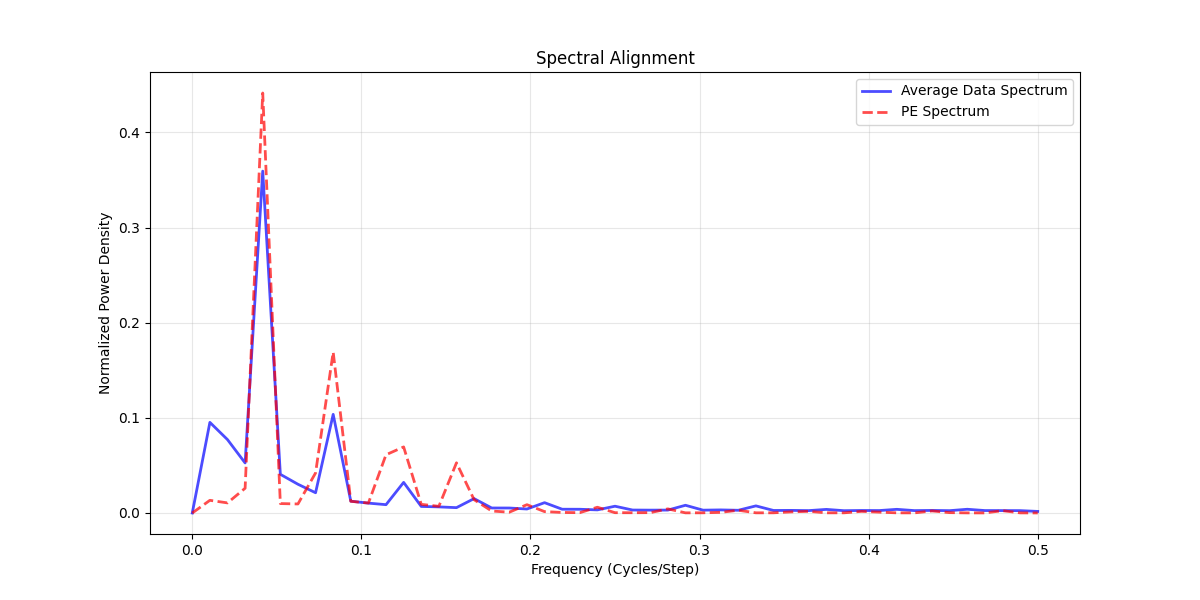
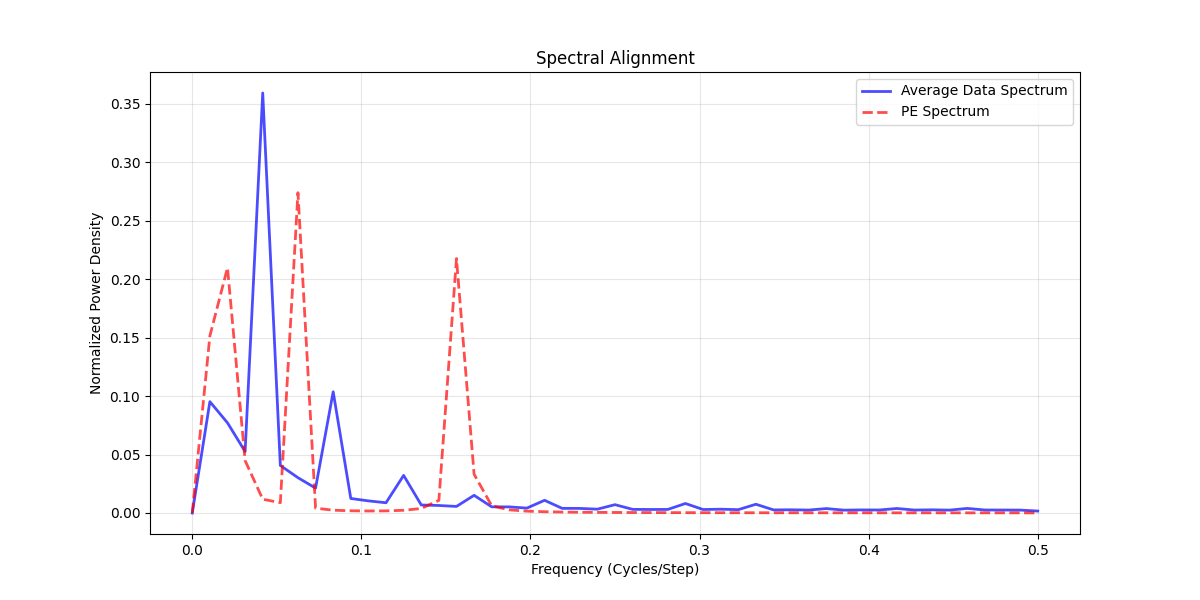
rope results from eqn on ili and etth1

diff --git a/extractcsv.py b/extractcsv.py
@@ -1,5 +1,6 @@
 import base64
 import os
+import argparse
 import pickle
 import time
 
@@ -56,6 +57,7 @@ def calculate_per_feature_metrics(save_dir: str):
     total_abs_actual = None
     total_sq_diff = None
     total_rows = 0
+    all_metrics = []
 
     # Identify if data is in sample subdirectories or root
     sample_dirs = [d for d in os.listdir(save_dir) if os.path.isdir(os.path.join(save_dir, d)) and d.startswith("sample_")]
@@ -68,35 +70,56 @@ def calculate_per_feature_metrics(save_dir: str):
         actual_path = os.path.join(save_dir, subdir, "actual_data.csv")
 
         if not os.path.exists(pred_path) or not os.path.exists(actual_path):
+            print(f"Warning: Missing prediction or actual data in {subdir}. Skipping.")
             continue
 
-        pred_df = pd.read_csv(pred_path)
-        actual_df = pd.read_csv(actual_path)
+        try:
+            pred_df = pd.read_csv(pred_path)
+            actual_df = pd.read_csv(actual_path)
+        except Exception as e:
+            print(f"Error reading CSVs in {subdir}: {e}. Skipping.")
+            continue
 
         # Calculate differences
-        diff = actual_df - pred_df
-        abs_diff = diff.abs()
-        
-        if total_abs_diff is None:
-            total_abs_diff = abs_diff.sum()
-            total_abs_actual = actual_df.abs().sum()
-            total_sq_diff = (diff ** 2).sum()
-        else:
-            total_abs_diff += abs_diff.sum()
-            total_abs_actual += actual_df.abs().sum()
-            total_sq_diff += (diff ** 2).sum()
-        
-        total_rows += len(actual_df)
+        try:
+            diff = actual_df - pred_df
+            abs_diff = diff.abs()
+
+            if total_abs_diff is None:
+                total_abs_diff = abs_diff.sum()
+                total_abs_actual = actual_df.abs().sum()
+                total_sq_diff = (diff ** 2).sum()
+            else:
+                total_abs_diff += abs_diff.sum()
+                total_abs_actual += actual_df.abs().sum()
+                total_sq_diff += (diff ** 2).sum()
+
+            total_rows += len(actual_df)
+        except Exception as e:
+            print(f"Error calculating metrics in {subdir}: {e}. Skipping.")
+            continue
 
     if total_rows > 0:
-        metrics_df = pd.DataFrame({
-            'WAPE': (total_abs_diff / (total_abs_actual + 1e-9)),
-            'MAE': total_abs_diff / total_rows,
-            'MSE': total_sq_diff / total_rows
-        })
+        try:
+             metrics_df = pd.DataFrame({
+                'WAPE': (total_abs_diff / (total_abs_actual + 1e-9)),
+                'MAE': total_abs_diff / total_rows,
+                'MSE': total_sq_diff / total_rows
+            })
+        except Exception as e:
+            print(f"Error creating metrics DataFrame: {e}")
+            return
+
         output_path = os.path.join(save_dir, "per_feature_metrics.csv")
-        metrics_df.to_csv(output_path)
-        print(f"Per-feature metrics saved to: {output_path}")
+
+        try:
+            metrics_df.to_csv(output_path)
+            print(f"Per-feature metrics saved to: {output_path}")
+        except Exception as e:
+            print(f"Error saving metrics to CSV: {e}")
+
+    else:
+        print("No valid data found for metric calculation.")
 
 
 def decode_data(filepath: str):
@@ -106,7 +129,10 @@ def decode_data(filepath: str):
     :param filepath: Path to the input CSV file containing encoded data.
     :return: None. The decoded data will be saved as CSV files in corresponding folders.
     """
-    data = pd.read_csv(filepath)  # Read the CSV file with encoded columns
+    try:
+        data = pd.read_csv(filepath)  # Read the CSV file with encoded columns
+    except Exception as e:
+        print(f"Error reading {filepath}: {e}")
 
     for index, row in data.iterrows():
         # Decode base64 strings and deserialize them back to original DataFrames
@@ -132,6 +158,18 @@ def decode_data(filepath: str):
         calculate_per_feature_metrics(save_dir)
 
 
-# Example usage
-your_result_csv_path = r"TST.1768886354.nrgpu1.3478941.csv"
-decode_data(your_result_csv_path)
+if __name__ == "__main__":
+    parser = argparse.ArgumentParser(description="Decode and process data from a CSV file.")
+    parser.add_argument("input_file", help="Path to the input CSV file.")
+    # parser.add_argument("--output_dir", help="Base directory for output (optional, defaults to same directory as input)", default=None) # Removed as the output directory is determined inside decode_data
+
+    args = parser.parse_args()
+
+    input_file_path = args.input_file
+    # output_directory = args.output_dir # Removed as the output directory is determined inside decode_data
+
+    decode_data(input_file_path)
+
+# Example usage:
+# python extractcsv.py /path/to/your/input.csv
+# The output will be saved in a directory created based on the input file's contents.

diff --git a/calc.py b/calc.py
@@ -1,0 +1,112 @@
+import pandas as pd
+import numpy as np
+import torch
+from scipy.stats import entropy, wasserstein_distance
+import seaborn as sns
+import matplotlib.pyplot as plt
+
+
+d_model = 128
+n_heads = 8
+head_dim = d_model // n_heads
+
+def calculate_rope_frequencies(d_model, n_heads, base_freq):
+    head_dim = d_model // n_heads
+    theta = 1.0 / (base_freq ** (torch.arange(0, head_dim, 2).float() / head_dim))
+    rope_freqs = theta.numpy() / (2 * np.pi)
+    return rope_freqs
+
+def calculate_kl_divergence(data_frequencies, rope_frequencies, num_bins=10):
+    data_hist, bin_edges = np.histogram(data_frequencies, bins=num_bins, density=True)
+    rope_hist, _ = np.histogram(rope_frequencies, bins=bin_edges, density=True)
+    
+    epsilon = 1e-9
+    data_hist = data_hist + epsilon
+    rope_hist = rope_hist + epsilon
+    
+    kl_div = entropy(data_hist, rope_hist)
+    return kl_div
+
+
+dataETTh1 = {
+    'Channel': ['HUFL', 'HULL', 'LUFL', 'LULL', 'MUFL', 'MULL', 'OT'],
+    'Peak 1 (Days)': [1, 1, 0.5, 1, 1, 1, 1],
+    'Peak 2 (Days)': [0.5, 0.5, 1.01, 16.5, 0.5, 0.5, 20.74],
+    'Peak 3 (Days)': [0.33, 16.5, 0.99, 21.99, 0.33, 26.88, 11.34]
+}
+
+data= {
+    'Channel': ['% WEIGHTED ILI', '%UNWEIGHTED ILI', 'AGE 0-4', 'AGE 5-24', 'ILITOTAL', 'NUM. OF PROVIDERS', 'OT'],
+    'Peak 1 (Days)': [375.67, 375.67, 375.67, 375.67, 375.67, 355.89, 355.89],
+    'Peak 2 (Days)': [182.76, 182.76, 233.17, 233.17, 182.76, 182.76, 182.76],
+    'Peak 3 (Days)': [270.48, 270.48, 182.76, 182.76, 233.17, 120.75, 120.75]
+}
+
+
+df = pd.DataFrame(data)
+# df['Freq 1 (Hz)'] = 1 / (df['Peak 1 (Days)'] * 24)
+# df['Freq 2 (Hz)'] = 1 / (df['Peak 2 (Days)'] * 24)
+# df['Freq 3 (Hz)'] = 1 / (df['Peak 3 (Days)'] * 24)
+
+df['Freq 1 (Hz)'] = 1 / (df['Peak 1 (Days)'] / 7)
+df['Freq 2 (Hz)'] = 1 / (df['Peak 2 (Days)'] / 7)
+df['Freq 3 (Hz)'] = 1 / (df['Peak 3 (Days)'] / 7)
+
+frequency_series = pd.concat([df[col] for col in df.columns if 'Freq' in col])
+frequency_series = frequency_series[frequency_series != np.inf]
+frequency_series = frequency_series[frequency_series != 0]
+
+min_data_freq = frequency_series.min()
+max_data_freq = frequency_series.max()
+
+
+print(f"Min Data Frequency: {min_data_freq:.4f}")
+print(f"Max Data Frequency: {max_data_freq:.4f}")
+
+base_freqs = np.arange(100, 10100, 100)
+best_base_freq = None
+min_range_diff = float('inf')
+
+for base_freq in base_freqs:
+    rope_freqs = calculate_rope_frequencies(d_model, n_heads, base_freq)
+    min_rope_freq = rope_freqs.min()
+    max_rope_freq = rope_freqs.max()
+    
+    range_diff = abs(max_data_freq - max_rope_freq) + abs(min_data_freq - min_rope_freq)
+    if range_diff < min_range_diff:
+        min_range_diff = range_diff
+        best_base_freq = base_freq
+
+print(f"Best Base Frequency using Range Matching: {best_base_freq}")
+
+best_base_freq_kl = None
+min_kl_divergence = float('inf')
+best_rope_frequencies = None
+
+for base_freq in base_freqs:
+    rope_frequencies = calculate_rope_frequencies(d_model, n_heads, base_freq)
+    kl_divergence = calculate_kl_divergence(frequency_series, rope_frequencies, num_bins=10)
+    
+    if kl_divergence < min_kl_divergence:
+        min_kl_divergence = kl_divergence
+        best_base_freq_kl = base_freq
+        best_rope_frequencies = rope_frequencies
+    
+    print(f"Base Freq: {base_freq}, KL Divergence: {kl_divergence:.4f}")
+
+print(f"\nBest Base Frequency using KL Divergence: {best_base_freq_kl}")
+print(f"Minimum KL Divergence: {min_kl_divergence:.4f}")
+# print(best_rope_frequencies)
+
+
+
+# Plotting the histogram of the best rope frequencies
+if best_rope_frequencies is not None:
+    plt.figure(figsize=(8, 6))
+    sns.histplot(best_rope_frequencies, kde=False)
+    plt.title(f"Histogram of RoPE Frequencies (Base Freq: {best_base_freq_kl})")
+    plt.xlabel("Frequency")
+    plt.ylabel("Count")
+    plt.show()
+else:
+    print("No valid RoPE frequencies to plot.")

diff --git a/notes.md b/notes.md
@@ -15,3 +15,5 @@ conda activate pe-benchmark
 sh scripts/multivariate_forecast/Weather_script/TST.sh 
 
 "wape": Calculates WAPE on the original (inverse-transformed) data scale. This is typically preferred for business reporting
+
+python extractcsv.py 
